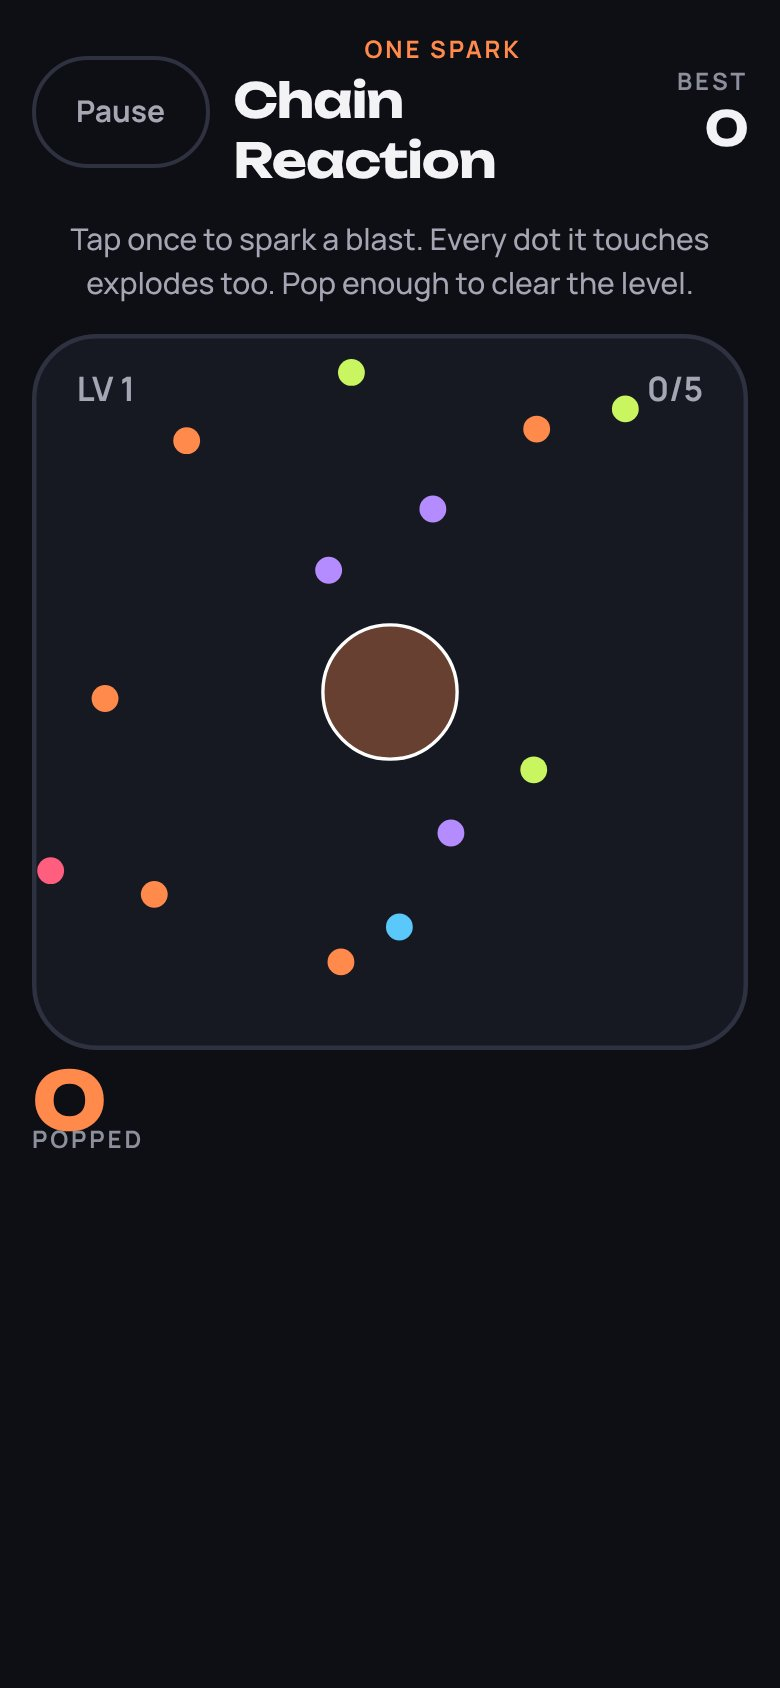
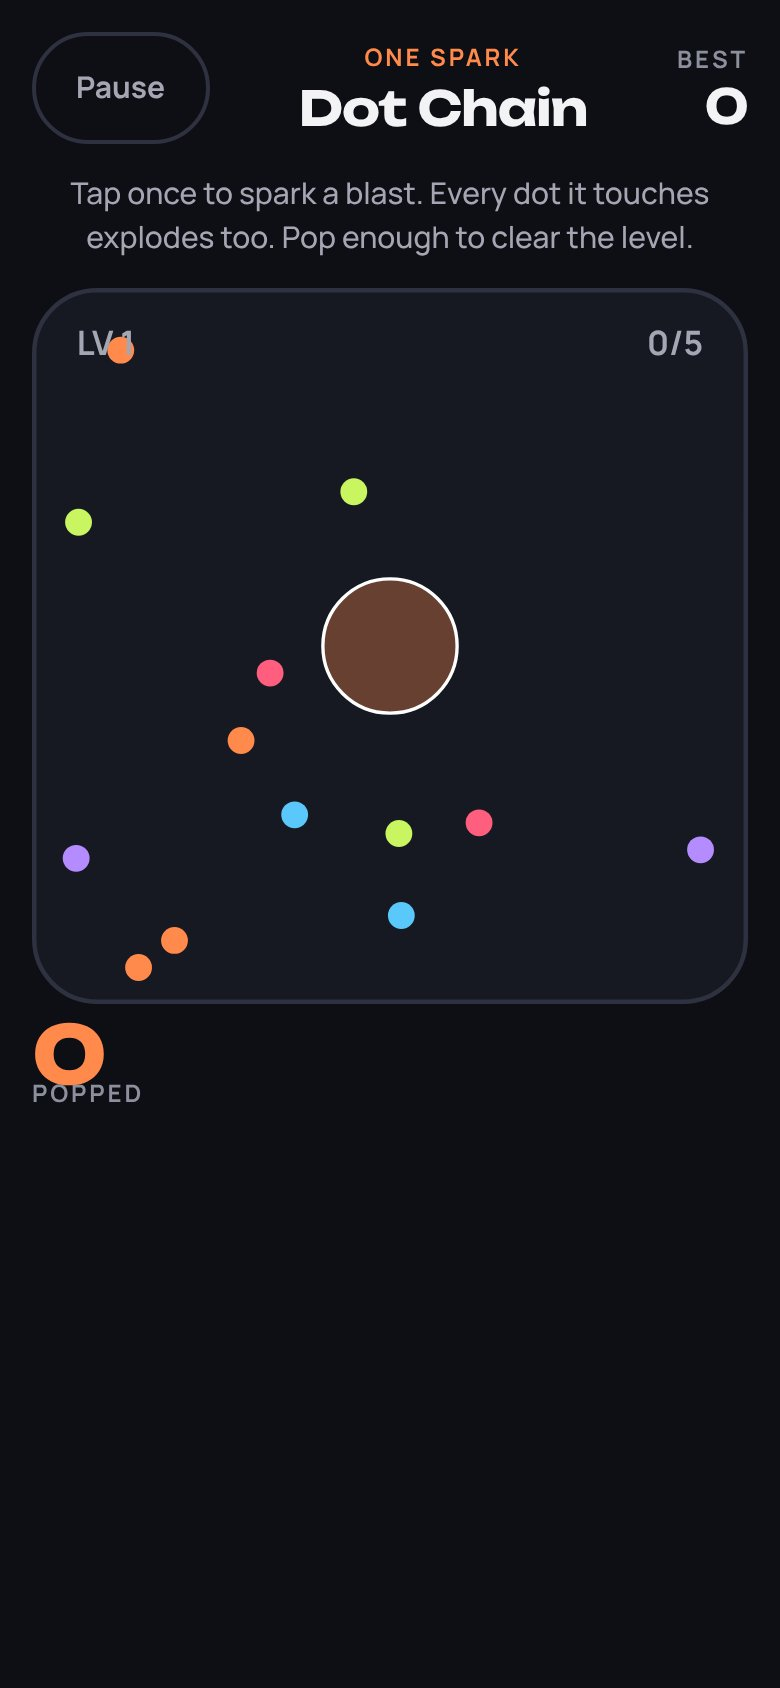
Update docs and screenshots for the Dot games, skins and achievements
Refreshes every Move & Play screenshot with the new names and adds Dot
Paint, Dot Duel, Dot Stack, dot naming, skin store, and achievement shots.
Also stops the Dot Duel bot from pinning the puck against its own wall.

diff --git a/__tests__/motion.test.ts b/__tests__/motion.test.ts
@@ -301,3 +301,10 @@ describe('paint', () => {
     expect(end.rank).toBeGreaterThanOrEqual(1);
   });
 });
+
+test('duel bot never pins the puck against its own wall', () => {
+  let s: DuelState = { ...run(createDuel(5)), serve: 0, puck: { x: 15, y: 15, vx: 0, vy: 0 } };
+  s = { ...s, paddles: [s.paddles[0], { x: 40, y: 40, vx: 0, vy: 0 }] };
+  for (let i = 0; i < 120; i++) s = stepDuel(s, 1 / 60);
+  expect(Math.hypot(s.puck.x - s.paddles[1].x, s.puck.y - s.paddles[1].y)).toBeGreaterThan(40);
+});

diff --git a/src/game/motion/duel.ts b/src/game/motion/duel.ts
@@ -45,6 +45,9 @@ export function createDuel(seed: number): DuelState {
 }
 function botTarget(s: DuelState) {
   const p = s.puck;
+  const me = s.paddles[1];
+  // Puck behind the bot (against its wall): step aside so it can never be pinned in a corner.
+  if (p.y < me.y + 4) return { x: p.x + (p.x < 160 ? 50 : -50), y: Math.min(140, p.y + 50) };
   if (p.y < 175 && (p.vy < 40 || p.y < 90)) return { x: p.x, y: Math.max(p.y - DUEL.paddle, 25) };
   return { x: 160 + (p.x - 160) * 0.6, y: 45 };
 }

diff --git a/docs/MOVE_AND_PLAY.md b/docs/MOVE_AND_PLAY.md
@@ -1,49 +1,97 @@
 # Move & Play
 
-Seven new games that go beyond a single tap. Each one uses a different gesture, keeps its own personal best, and uses the equipped orb skin, sound, and haptic settings.
+Ten "Dot" games that go beyond a single tap, alongside the four one-tap circle games (14 games in total). Each Move & Play game uses a different gesture, keeps its own personal best, pays coins at game over, and uses the equipped dot skin, sound, and haptic settings.
 
-| Game           | Gesture                  | How it plays                                                                                                                         | Score                    |
-| -------------- | ------------------------ | ------------------------------------------------------------------------------------------------------------------------------------ | ------------------------ |
-| Orb Arena      | Floating joystick + Dash | Agar-style survival. Eat pellets and smaller orbs, avoid bigger ones, and stay inside the shrinking storm zone for a 3-minute match. | Peak mass + finish bonus |
-| Dot Drift      | Drag                     | Slide through a growing swarm. Chain gold dots within 3 s to build a combo of up to x8.                                              | Points                   |
-| Charge Shot    | Hold & release           | Hold to charge, then release to jump to the next pad. A perfect landing scores double. Holding too long burns out the jump.          | Pads                     |
-| Swipe Split    | Swipe                    | Fling the dot to the gate of its color. Gates shuffle every 8 sorts, and trick dots change color halfway.                            | Sorts                    |
-| Chain Reaction | One tap per level        | Place one spark. Every dot it touches explodes and keeps the chain going. Pop the goal to reach the next level.                      | Popped                   |
-| Connect Flow   | Draw                     | Link same-color neighbours against a 45 s clock. Close a loop to clear that whole color. Long chains add time.                       | Dots                     |
-| Tilt Orb       | Tilt (drag on web)       | Roll the orb out through gaps in three counter-rotating rings before the timer ends.                                                 | Escapes                  |
+| Game      | Gesture                  | How it plays                                                                                                                            | Score                    |
+| --------- | ------------------------ | --------------------------------------------------------------------------------------------------------------------------------------- | ------------------------ |
+| Dot Arena | Floating joystick + Dash | Agar-style survival. Eat pellets and smaller dots, avoid bigger ones, and stay inside the shrinking storm zone for a 3-minute match.    | Peak mass + finish bonus |
+| Dot Paint | Swipe to steer           | Territory battle. Leave your land to draw a trail and come home to claim everything it encloses. Cut a rival's trail to knock them out. | % of the map             |
+| Dot Duel  | Multi-touch drag         | Air hockey. Two players share one phone, one on each half, or you play the bot. First to 5 goals wins.                                  | Goals                    |
+| Dot Drift | Drag                     | Slide through a growing swarm. Chain gold dots within 3 s to build a combo of up to x8.                                                 | Points                   |
+| Dot Jump  | Hold & release           | Charge, then release to land on the next pad. A perfect landing scores double. Holding too long burns out the jump.                     | Pads                     |
+| Dot Sort  | Swipe                    | Fling each dot to the gate of its color. Gates shuffle every 8 sorts, and trick dots change color halfway.                              | Sorts                    |
+| Dot Chain | One tap per level        | Place one spark. Every dot it touches explodes and keeps the chain going. Pop the goal to reach the next level.                         | Popped                   |
+| Dot Link  | Draw                     | Link same-color neighbours against a 45 s clock. Close a loop to clear that whole color. Long chains add time.                          | Dots                     |
+| Dot Maze  | Tilt (drag on web)       | Roll out through gaps in three counter-rotating rings before the timer ends.                                                            | Escapes                  |
+| Dot Stack | Hold                     | Grow a ring and lock it just inside the last ring. The closer you dare, the more it scores: +3 for a perfect fit.                       | Points                   |
 
-## What makes Orb Arena different
+The one-tap games follow the same naming: Dot Runner (the original), Dot Pulse, Dot Switch, and Dot Lock.
 
-- **Dash**: a short burst of speed that costs 12% of your mass. Use it to catch prey or escape.
-- **Power-ups** appear every 9 s:
+## Dot Arena
+
+- **Dash**: a short burst of speed that costs 12% of your mass.
+- **Power-ups**:
   - **S** (shield) protects you from being eaten for 5 s.
   - **M** (magnet) pulls in nearby pellets for 7 s.
   - **+** (surge) adds 25% mass instantly.
-- **Storm zone**: the safe circle starts shrinking after 45 s, and orbs outside it lose mass. Late-game fights are forced instead of camping.
-- **Spawn shield**: new orbs get 2.5 s of protection.
-- **Live leaderboard and rank** stay on screen. The camera zooms out as you grow.
-- **Rival bots** react to threats. They flee bigger orbs, chase smaller ones, graze on pellets, and dash at the right moment.
+- **Storm zone**: the safe circle starts shrinking after 45 s, and dots outside it lose mass.
+- **Rival bots** wear fun skins. They flee bigger dots, chase smaller ones, and dash at the right moment.
+- **Your name**: you can name your dot before the match. The name appears on the live leaderboard and is saved in Settings under **Your Dot**.
+
+## Skins
+
+The skin store has 94 skins in 8 tabs:
+
+| Tab        | What's in it                                                    |
+| ---------- | --------------------------------------------------------------- |
+| Classic    | The original solid-color skins                                  |
+| Characters | 😎 🤖 🥷 🤴 and more                                            |
+| Monsters   | 👾 👻 👹 🐲 and more                                            |
+| Animals    | Animal faces                                                    |
+| Food       | Snacks and sweets                                               |
+| Sports     | Balls and a trophy                                              |
+| Space      | Planets, stars and fire                                         |
+| Flags      | Every Arab League country plus popular countries worldwide (42) |
+
+A **Mystery skin** (800 coins) unlocks a random fun skin you don't own yet. It never gives a flag, so players pick their own country.
+
+The character or flag shows on your dot in every game drawn with SVG. Dot Runner draws with Skia, so it uses the skin's colors there.
+
+## Achievements
+
+There are 26 achievements with coin rewards:
+
+- **Milestones:** plays, distinct games, and play on 7 different days.
+- **Battle:** kills, mass, an arena win, territory claimed, and trails cut.
+- **Duels:** win a duel, and play 2-player matches together.
+- **Score goals:** one for every game.
+- **Other:** skins owned, and sharing a score.
+
+Unlocks show a banner from any screen. The Achievements screen opens from Home, Ranks, or Settings. Every game also pays a few coins at game over, and the **Share score** button invites friends to beat you.
 
 ## Screenshots
 
 These were captured from the Expo web preview at a 390 × 844 phone viewport.
 
-<p><img src="screenshots/motion-library.jpg" width="200" alt="Move & Play library"> <img src="screenshots/game-arena.jpg" width="200" alt="Orb Arena"> <img src="screenshots/game-drift.jpg" width="200" alt="Dot Drift"> <img src="screenshots/game-charge.jpg" width="200" alt="Charge Shot"></p>
-<p><img src="screenshots/game-swipe.jpg" width="200" alt="Swipe Split"> <img src="screenshots/game-chain.jpg" width="200" alt="Chain Reaction"> <img src="screenshots/game-flow.jpg" width="200" alt="Connect Flow"> <img src="screenshots/game-tilt.jpg" width="200" alt="Tilt Orb"></p>
+<p><img src="screenshots/motion-library.jpg" width="200" alt="Move & Play library"> <img src="screenshots/game-arena.jpg" width="200" alt="Dot Arena"> <img src="screenshots/dot-name.jpg" width="200" alt="Naming your dot"> <img src="screenshots/game-paint.jpg" width="200" alt="Dot Paint"></p>
+<p><img src="screenshots/game-duel-modes.jpg" width="200" alt="Dot Duel mode picker"> <img src="screenshots/game-duel.jpg" width="200" alt="Dot Duel"> <img src="screenshots/game-stack.jpg" width="200" alt="Dot Stack"> <img src="screenshots/game-drift.jpg" width="200" alt="Dot Drift"></p>
+<p><img src="screenshots/game-charge.jpg" width="200" alt="Dot Jump"> <img src="screenshots/game-swipe.jpg" width="200" alt="Dot Sort"> <img src="screenshots/game-chain.jpg" width="200" alt="Dot Chain"> <img src="screenshots/game-flow.jpg" width="200" alt="Dot Link"></p>
+<p><img src="screenshots/game-tilt.jpg" width="200" alt="Dot Maze"> <img src="screenshots/skins-characters.jpg" width="200" alt="Character skins and mystery box"> <img src="screenshots/skins-flags.jpg" width="200" alt="Flag skins"> <img src="screenshots/achievements.jpg" width="200" alt="Achievements"></p>
+<p><img src="screenshots/achievement-unlocked.jpg" width="200" alt="Achievement unlocked banner"> <img src="screenshots/home-achievements.jpg" width="200" alt="Home with achievements"></p>
 
 ## Implementation
 
-- `src/game/motion/*.ts`: pure, seeded rules for each game (`create`, `step`, `input`). The same seed and inputs always give the same result.
-- `src/app/motion.tsx`: shared screen that handles touch, drag, swipe, the accelerometer, pause/resume, the frame loop, and best scores.
-- `src/components/MotionArt.tsx`: SVG rendering for library cards and gameplay.
-- `src/state/arcade.ts`: personal bests for all games. Saves from older versions gain the new games without losing scores.
-- New dependency: `expo-sensors`, used for Tilt Orb. It is part of Expo Go and needs no config plugin.
+- `src/game/motion/*.ts`: pure, seeded rules for each game (`create`, `step`, `input`).
+- `src/app/motion.tsx`: shared screen. It handles touch, multi-touch, swipe, the accelerometer, pause/resume, names, sharing, and rewards.
+- `src/components/MotionArt.tsx` and `src/components/SkinDot.tsx`: SVG rendering, including the character and flag skins.
+- `src/game/achievements.ts` and `src/state/achievements.ts`: achievement definitions, lifetime counters, and coin rewards.
+- Ads are paused with `AdsEnabled = false` in `src/services/config.ts`. Set it to `true` before the production release.
 
 ## Road to online play
 
-Orb Arena is built so it can go online without rewriting the game:
+Dot Arena, Dot Paint, and Dot Duel are built to go online without rewriting their rules:
 
-1. Every orb, human or bot, is driven by the same `ArenaCommand` (`dx`, `dy`, `dash`). A remote player is just another source of commands.
-2. `stepArena` is a pure function with a seeded RNG. It can run unchanged on an authoritative server, such as a Node or Bun WebSocket service, at a fixed tick rate.
-3. Clients send commands and render server snapshots, with local prediction for their own orb. Bots fill empty seats so matches start instantly.
-4. After that, the next candidates are friend rooms with a share code, a weekly leaderboard, and ghost replays for Charge Shot and Chain Reaction. Ghost replays work because these games are deterministic.
+1. Every player, human or bot, is driven by the same small input:
+   - Arena: a heading plus dash.
+   - Paint: a direction.
+   - Duel: a paddle target.
+
+   A remote player is just another source of that input.
+
+2. The rules are pure functions with a seeded RNG. Dot Paint also advances on a fixed 8 Hz tick. The same code can run on an authoritative server, such as a Node or Bun WebSocket service, and clients send inputs and render snapshots.
+3. Bots fill empty seats so matches start instantly. Player names and skins are already part of each player's state.
+4. Next steps:
+   - Friend rooms with a share code.
+   - Online Dot Duel for couples on two phones.
+   - A weekly leaderboard.
+   - Ghost replays for the deterministic games.

diff --git a/docs/CIRCLE_COLLECTION.md b/docs/CIRCLE_COLLECTION.md
@@ -1,21 +1,21 @@
 # The Circle Collection
 
-Lumo now opens to a four-game library. Gate Runner is the original game and stays first, with its existing scores, coins, ranks, daily goal, and results flow.
+Lumo now opens to a four-game library. Dot Runner is the original game and stays first, with its existing scores, coins, ranks, daily goal, and results flow.
 
-| Game         | One-tap action                                            | Score          |
-| ------------ | --------------------------------------------------------- | -------------- |
-| Gate Runner  | Tap as your orb crosses the gate                          | Gates cleared  |
-| Pulse        | Tap when the shrinking ring enters the dotted target band | Rings matched  |
-| Orbit Switch | Switch between two circular lanes to avoid incoming dots  | Dots dodged    |
-| Dot Lock     | Tap when your orbiting dot overlaps the outlined target   | Targets locked |
+| Game       | One-tap action                                            | Score          |
+| ---------- | --------------------------------------------------------- | -------------- |
+| Dot Runner | Tap as your orb crosses the gate                          | Gates cleared  |
+| Dot Pulse  | Tap when the shrinking ring enters the dotted target band | Rings matched  |
+| Dot Switch | Switch between two circular lanes to avoid incoming dots  | Dots dodged    |
+| Dot Lock   | Tap when your orbiting dot overlaps the outlined target   | Targets locked |
 
-The three new games have independent persistent personal bests. They use the equipped orb skin, sound and haptic settings. Their scores do not count toward Gate Runner ranks, coins, or daily gates. Difficulty increases with score and has a cap. There are no new dependencies or native configuration changes.
+The three new games have independent persistent personal bests. They use the equipped orb skin, sound and haptic settings. Their scores do not count toward Dot Runner ranks, coins, or daily gates. Difficulty increases with score and has a cap. There are no new dependencies or native configuration changes.
 
 ## Screenshots
 
 Captured from the running Expo web preview at a 390 × 844 phone viewport. These are browser captures, not native-device screenshots. The original native screenshots remain in `screenshots/`.
 
-<p><img src="screenshots/circle-library.jpg" width="220" alt="Library featuring the original Gate Runner"> <img src="screenshots/circle-games.jpg" width="220" alt="Pulse, Orbit Switch, and Dot Lock cards"></p>
+<p><img src="screenshots/circle-library.jpg" width="220" alt="Library featuring the original Dot Runner"> <img src="screenshots/circle-games.jpg" width="220" alt="Pulse, Orbit Switch, and Dot Lock cards"></p>
 <p><img src="screenshots/pulse.jpg" width="220" alt="Pulse rings"> <img src="screenshots/orbit-switch.jpg" width="220" alt="Orbit Switch lanes"> <img src="screenshots/dot-lock.jpg" width="220" alt="Dot Lock target"></p>
 
 ## Implementation
@@ -25,7 +25,7 @@ Captured from the running Expo web preview at a 390 × 844 phone viewport. These
 - `src/components/ArcadeArt.tsx`: SVG artwork used in the library and gameplay.
 - `src/state/arcade.ts`: separate MMKV-backed best scores, saved as each point is earned.
 
-The new games render SVG on JavaScript animation frames. Gate Runner retains its existing UI-thread/Skia engine. Backgrounding, leaving the route, or a frame interruption longer than 250 ms pauses the new games. Android Back pauses a running game before allowing navigation away. The game field and the large action button both accept taps. Short screens scroll so controls remain reachable.
+The new games render SVG on JavaScript animation frames. Dot Runner retains its existing UI-thread/Skia engine. Backgrounding, leaving the route, or a frame interruption longer than 250 ms pauses the new games. Android Back pauses a running game before allowing navigation away. The game field and the large action button both accept taps. Short screens scroll so controls remain reachable.
 
 ## Validation
 

diff --git a/README.md b/README.md
@@ -1,10 +1,10 @@
 # Lumo: The Circle Collection
 
-Four circle games, one tap: Gate Runner (the original), Pulse, Orbit Switch, and Dot Lock. Choose a game from the library and build a separate personal best in each. See [the collection guide](docs/CIRCLE_COLLECTION.md) for controls and screenshots.
+Four circle games, one tap: Dot Runner (the original), Dot Pulse, Dot Switch, and Dot Lock. Choose a game from the library and build a separate personal best in each. See [the collection guide](docs/CIRCLE_COLLECTION.md) for controls and screenshots.
 
-**New: Move & Play.** Seven gesture games: Orb Arena (agar-style battle with dash, power-ups, and a storm zone), Dot Drift, Charge Shot, Swipe Split, Chain Reaction, Connect Flow, and Tilt Orb. See [the Move & Play guide](docs/MOVE_AND_PLAY.md).
+**Move & Play: 10 more Dot games.** Dot Arena (agar-style battle), Dot Paint (territory battle), Dot Duel (2 players on one phone), Dot Drift, Dot Jump, Dot Sort, Dot Chain, Dot Link, Dot Maze and Dot Stack. Also included: 94 skins (characters, monsters and country flags), 26 achievements, and a dot name for battle leaderboards. See [the Move & Play guide](docs/MOVE_AND_PLAY.md).
 
-<p><img src="docs/screenshots/game-arena.jpg" width="180" alt="Orb Arena"> <img src="docs/screenshots/game-flow.jpg" width="180" alt="Connect Flow"> <img src="docs/screenshots/game-chain.jpg" width="180" alt="Chain Reaction"> <img src="docs/screenshots/game-tilt.jpg" width="180" alt="Tilt Orb"></p>
+<p><img src="docs/screenshots/game-arena.jpg" width="180" alt="Dot Arena"> <img src="docs/screenshots/game-paint.jpg" width="180" alt="Dot Paint"> <img src="docs/screenshots/game-duel.jpg" width="180" alt="Dot Duel"> <img src="docs/screenshots/skins-flags.jpg" width="180" alt="Flag skins"> <img src="docs/screenshots/achievements.jpg" width="180" alt="Achievements"></p>
 
 Built with **Expo SDK 57 / React Native 0.86** (new architecture) from one TypeScript codebase for **Android and iOS**. It's a 1:1 implementation of the _One-Tap Game App_ design canvas: dark ground, lime accent, Unbounded + Manrope.
 
